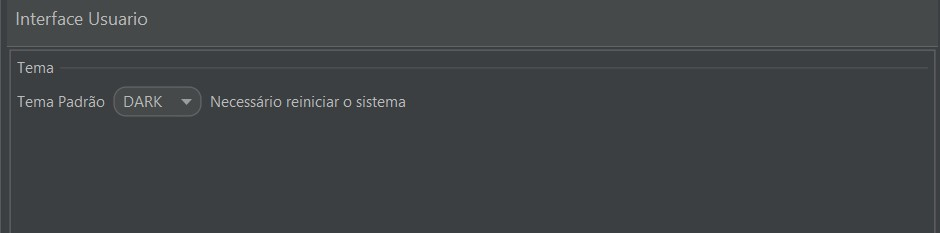
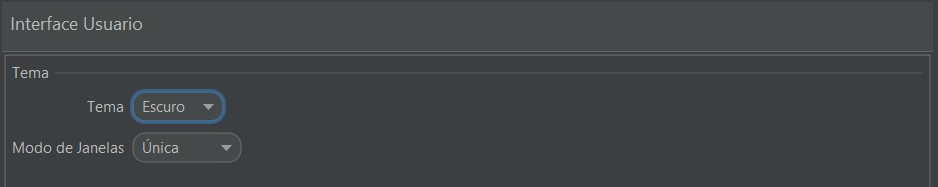
atualizações_documentação_versãofinal
atualizações_documentação_versãofinal

diff --git a/docs/sistema_parametrizacao.md b/docs/sistema_parametrizacao.md
@@ -100,7 +100,13 @@ Parametrizações não obrigatórias. As alíquotas serão utilizadas como base 
 
 ![](images/sistema_parametrizacao_contas_receber.jpg)
 
+{: #estoque}
 
+### Parametrização Estoque
+
+A única parametrização para estoque atualmente é o campo "Permite estoque negativo". Esse campo vem originalmente desmarcado **e é altamente recomendável que não seja habilitado**, pois as transações efetuadas com estoque negativo alteram o cálculo do Custo médio dos produtos e não há como corrigir o custo médio as transações efetuadas com custo médio incorreto. 
+
+![](images/sistema_parametrizacao_estoque.jpg)
 
 {: #dimensaoestoque}
 
@@ -138,9 +144,11 @@ As parametrizações de venda devem ser feitas para cada empresa cadastrada.
 
 Quando a opção Entrega a Domicílio estiver habilitada nos parâmetros de venda, esta opção ficará também habilitada na tela de venda, onde se marcada levará a informação de entrega a domicílio para o XML do NFC-e campo <indPres>4. 
 
-Os campos de transportadora, modalidade e valores de frete também poderão ser preenchidos para que sejam levados de maneira default para a venda que tiver entrega a domicílio.
+Os campos de transportadora, modalidade e valores de frete e seguro também poderão ser preenchidos para que sejam levados de maneira automática para a venda que tiver entrega a domicílio. 
 
-O campo vendedor pode ser marcado como obrigatório nos processos de venda.
+O campo vendedor pode ser marcado como obrigatório ou opcional nos processos de venda.
+
+O campo "Permite Cancelamento de venda ou reversão no Cartão" deve ser habilitado para serem realizados Cancelamento das Vendas ou Reversão de Recebimento feitas no Cartão. 
 
 ![](images/sistema_parametrizacao_venda.jpg)
 
@@ -150,9 +158,9 @@ O campo vendedor pode ser marcado como obrigatório nos processos de venda.
 
 ### Parametrização Interface Usuário
 
-A Interface do usuário vem por padrão o Light. Além desta existe o tema Dark que é indicada para aqueles que já trabalham com o sistema operacional com essa interface.
+A Interface do usuário vem por padrão o tema Claro, além deste existe o tema Escuro.
 
-Ao alterar o tema é necessário sair do sistema e entrar novamente. 
+Modo de Janelas vem por padrão Única, com essa configuração somente uma janela do sistema por ser aberta de cada vez. O Modo de Janelas Múltiplas permite abrir várias janelas no sistema ao mesmo tempo. 
 
 ![](images/sistema_parametrizacao_interface_usuario.jpg)
 
@@ -160,7 +168,19 @@ Ao alterar o tema é necessário sair do sistema e entrar novamente.
 
 
 
+{: #caixa}
 
+### Parametrização Caixa
+
+Os parâmetros "Necessário caixa para faturamento " e "Necessário caixa para recebimento" vem marcados por padrão, esses parâmetros obrigam ter uma Caixa Aberto para realizar o faturamento de venda ou recebimento do Contas a Receber. 
+
+Caso sejam desmarcados será possível realizar o faturamento de Vendas e Recebimento de Contas a Receber sem um Caixa aberto, porém a forma de recebimento "Dinheiro" não estará disponível. Nestes casos o recebimento em espécie poderá ser executado através da forma de pagamento Banco, através da Conta "Caixinha".
+
+O parâmetro "Habilita fundo de troco" vem desmarcado por padrão, se habilitado, no processo de fechamento de Caixa será possível deixar no Caixa um valor destinado ao  fundo de troco, que ficará disponível no caixa, como saldo inicial na próxima abertura.
+
+
+
+![](images/sistema_parametrizacao_caixa.jpg)
 
 [Voltar](sistema.md#ajustes)
 
